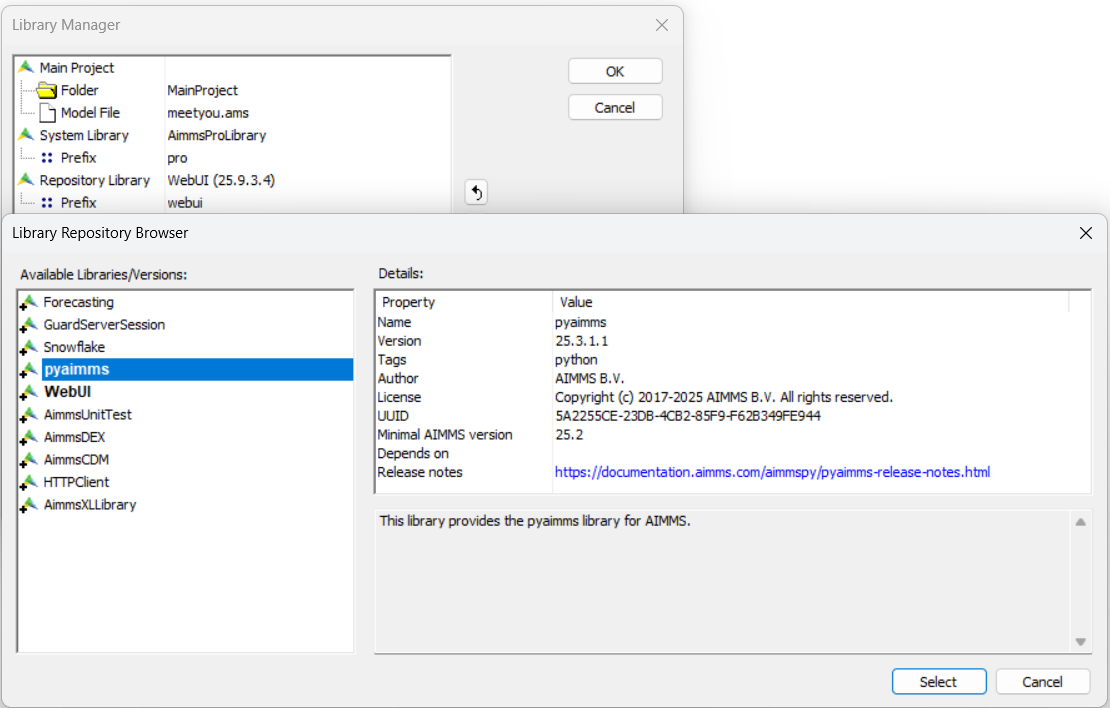
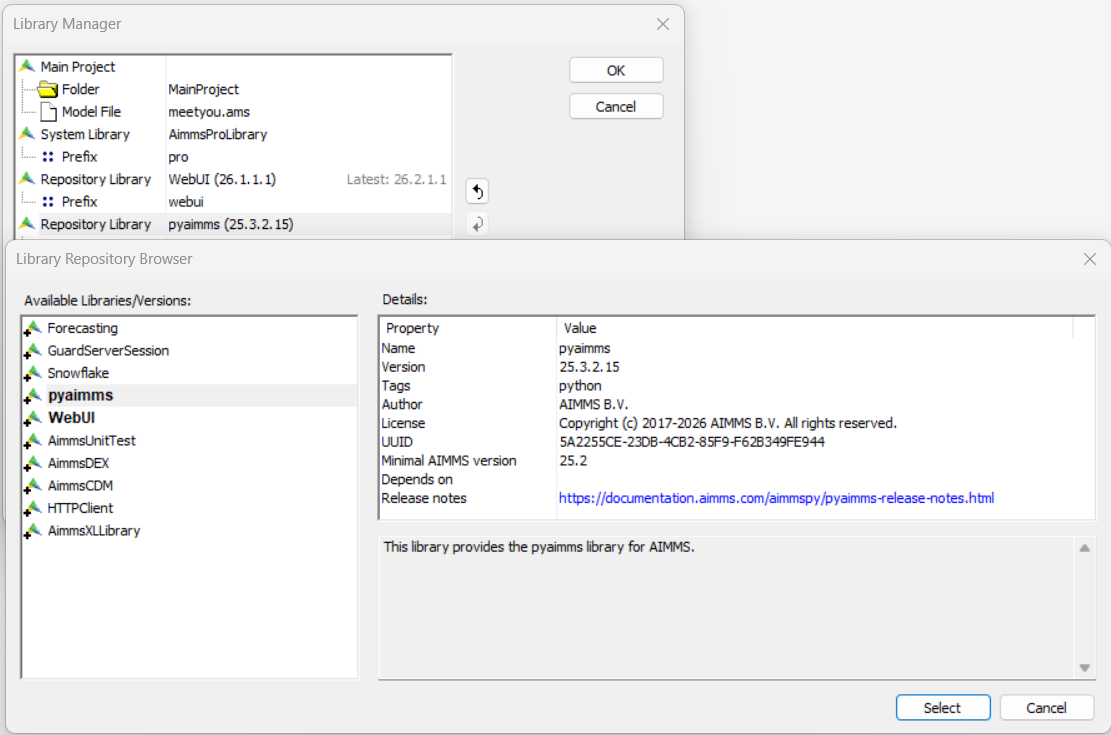
#689 save work

diff --git a/Articles/689/689-nice-to-meet-you-pyaimms.rst b/Articles/689/689-nice-to-meet-you-pyaimms.rst
@@ -5,30 +5,53 @@ Nice to meet you: PYAIMMS from Python Bridge
     :align: center
     :scale: 50 %
 
-
-The Python bridge enables AIMMS applications to leverage the power of Python libraries seamlessly, 
-for example for advanced data manipulation, analytics, or machine-learning workflows that are not native to AIMMS.
-To integrate Python into your application, follow these steps to set up your environment and exchange data.
-
-Example Scenario
---------------------
-
-Goal: Given a square matrix :math:`P(i,j)` in AIMMS, obtain the transpose :math:`P^T(j,i)` using the Python Polars library.
-
 Download here :download:`AIMMS 25.9 project download <model/meetyou.zip>`
+
+The Python bridge allows AIMMS applications to call Python code and exchange data with Python libraries.
+This how-to demonstrates how to configure the bridge, manage dependencies, and transfer multi-dimensional identifiers between AIMMS and Python.
+The example uses a simple matrix transpose to illustrate the integration steps rather than the Python logic itself.
+
+The concept
+-------------
+
+#.  Environment management
+
+    AIMMS uses ``uv`` to create and manage a project-specific Python environment automatically.
+
+#.  Connection layer
+
+    The ``aimmspy`` library provides a typed access to exposed AIMMS identifiers.
+
+#.  Data exchange model
+
+    Multi-dimensional identifiers are transferred as long-format DataFrames:
+    
+    #.  Each index becomes a column.
+    
+    #.  The value column is named after the identifier.
+
+Example: Demonstrating Data Exchange
+-------------------------------------------------- 
+
+Goal: Given a square matrix :math:`P(i,j)` in AIMMS, compute its transpose :math:`P^T(j,i)` using the Python Polars.
+
+The matrix transpose is used only to illustrate how multi-dimensional data is transferred and manipulated in Python.
+
 
 Requirements
 ---------------------
 
-* Python: Version 3.10 and onwards
+* Python 3.10 or later
 
-* AIMMS: Version 25.4 and onwards
+* AIMMS 25.4 or later
 
+Steps taken with the Python files
+----------------------------------
 
 Step 1. Add the toml file
---------------------------
+^^^^^^^^^^^^^^^^^^^^^^^^^^^^^^^^^^^^^^^^^^^^^^^^^^^^^^^^^^^^^^^^^^
 
-AIMMS uses `uv <https://docs.astral.sh/uv/>`_ to manage Python versions and virtual environments automatically.
+`uv <https://docs.astral.sh/uv/>`_ manages the Python versions and virtual environments automatically.
 
 A minimal ``pyproject.toml`` file is as follows:
 
@@ -42,14 +65,14 @@ A minimal ``pyproject.toml`` file is as follows:
     description = "Good to see you again (after aimmspy)"
     requires-python = "==3.13.*"
     dependencies = [
-        "aimmspy>=25.2.1.12"
+        "aimmspy>=25.3.1.8"
     ]
     [tool.uv] 
-    python-preference = "managed"
+    python-preference = "only-managed"
 
 Download here :download:`sample pyproject.toml <model/pyproject.toml>`
 
-The ``pyproject.toml`` file registers the dependencies.
+The ``pyproject.toml`` file defines the dependencies.
 
 Remarks: 
 
@@ -62,26 +85,31 @@ For instance, to add the Python library ``Polars``, execute the command:
 
     uv add polars
 
-This will create / update the virtual environment ``.venv``, and change the dependencies list to:
+This creates or updates the ``.venv`` environment and adds the dependency:
 
 .. code-block:: none
     :linenos:
     :emphasize-lines: 3
 
     dependencies = [
-        "aimmspy>=25.2.1.12",
-        "polars>=1.30.0"
+        "aimmspy>=25.3.1.8",
+        "polars>=1.30"
     ]
     
 
-Step 2. Define the Connection (singleton.py)
------------------------------------------------
+Placement
+""""""""""""""
 
-This file defines how AIMMS and Python talk to each other.
+Place this file in the project folder, next to the ``.aimms`` file.
+
+Step 2. Define the Connection (pyaimms_bridge.py)
+^^^^^^^^^^^^^^^^^^^^^^^^^^^^^^^^^^^^^^^^^^^^^^^^^^^^^^^^^^^^^^^^^^
+
+This file defines the Python–AIMMS connection.
 
 .. code-block:: Python
     :linenos:
-    :emphasize-lines: 5,6
+    :emphasize-lines: 5,6,9
 
     from aimmspy.project.project import Project, Model
     from aimmspy.model.enums.data_return_types import DataReturnTypes
@@ -91,26 +119,72 @@ This file defines how AIMMS and Python talk to each other.
         data_type_preference = DataReturnTypes.POLARS
     )
 
-    my_aimms : Model = project.get_model("model_stub.py")
+    aimms_model : Model = project.get_model("model_stub.py")
 
 Remarks:
 
-*   line 5: Allows Python scripts to exchange data with all identifiers declared in the AIMMS model.
+*   line 5: Exposes all identifiers in the AIMMS model to Python.
 
-*   line 6: Indicates which Python library is used for exchanging data of multi-dimensional identifiers with the AIMMS model.
-    Currently available are DICT, ARROW, PANDAS, and POLARS. In this example, we choose POLARS.
+*   line 6: Specifies the data format used for multi-dimensional identifiers.
+    Available options are DICT, ARROW, PANDAS, and POLARS. In this example, we choose POLARS.
+
+*   line 9: The file ``model_stub.pyi`` is the auto-generated bridge file.
+
+    * This provides typed access to exposed identifiers.
+    
+    * It is regenerated when the model changes.
+    
+    * It should not be edited manually.
+
+This example uses a singleton (pyaimms_bridge.py) to maintain a persistent connection during the session.
+
+Placement
+""""""""""""""
+
+Place this file in the ``PythonScripts`` subfolder.
 
 Step 3. Write the Logic (transpose.py)
----------------------------------------
+^^^^^^^^^^^^^^^^^^^^^^^^^^^^^^^^^^^^^^^^^^^^^^^^^^^^^^^^^^^^^^^^^^
 
-After all this generic setup; we move on to more specific parts of the example at hand.  
-How does the Python code to transpose look like?
+In AIMMS, a multi-dimensional parameter such as ``P(i,j)`` is defined over index domains ``i`` and ``j``, 
+which can be interpreted mathematically as row and column indices of a matrix.
+
+When transferred to Python via the bridge, the parameter is represented as a long-format DataFrame. 
+In this representation:
+
+*   Each AIMMS index becomes a column in the DataFrame.
+
+*   The parameter values appear in a column named after the identifier (e.g., ``P``).
+
+For example, ``P(i,j)`` is transferred as:
+
+.. code-block:: none
+
+   i   j  p
+   1   1  11
+   1   2  12
+   ...
+
+Thus, although ``i`` and ``j`` represent row and column indices conceptually, 
+they are both columns in the Python DataFrame representation.
+
+Similarly, the output long-format DataFrame:
+
+.. code-block:: none
+
+   i   j  pt
+   1   1  11
+   2   1  12
+   ...
+
+Transposing a matrix corresponds to swapping the index columns ``i`` and ``j``.
+The Python implementation:
 
 .. code-block:: Python
     :linenos:
     :emphasize-lines: 9,15
 
-    from singleton import my_aimms
+    from PythonScripts.pyaimms_bridge import aimms_model
 
     def transpose_matrix():
         """
@@ -118,60 +192,68 @@ How does the Python code to transpose look like?
         """
 
         # Get the DataFrame from AIMMS.
-        p_df = my_aimms.p.data()
+        p_df = aimms_model.p.data()
 
         # Swap index dimensions and rename the value column.
         pt_df = p_df.rename({'j': 'i', 'i': 'j', 'p': 'pt'})
 
         # Send data back to AIMMS.
-        my_aimms.pt.assign(pt_df)
+        aimms_model.pt.assign(pt_df)
 
 Remarks:
 
-*   Line 9: Copy the data from AIMMS parameter ``p`` into Python Polars DataFrame ``p_df``
+*   Line 9: Retrieves parameter ``p`` as a Polars DataFrame.
 
-*   Line 12: Because multi-dimensional AIMMS parameters are transferred as long-format DataFrames, 
-    transposing a matrix corresponds to swapping the index columns ``i`` and ``j``.
+*   Line 12: Swaps the index columns and renames the value column.
 
-*   Line 15: And copy the data from Polars DataFrame ``pt_df`` into the AIMMS parameter ``pt``
+*   Line 15: Assigns the result to parameter ``pt`` in AIMMS.
 
-Step 4. Prepare AIMMS project
--------------------------------------
+Placement
+""""""""""""""
+
+This file is placed in the sub-folder ``PythonScripts``.
+
+Steps taken in the AIMMS project
+---------------------------------------------------------------
+
+Step 1. Prepare AIMMS project
+^^^^^^^^^^^^^^^^^^^^^^^^^^^^^^^^^^^^^^^^^^^^^^^^^^^^^^^^^^^^^^^^^^
  
 Add the pyaimms repository library via the Library Manager in AIMMS Developer:
 
 .. image:: images/addrepolib.png
     :align: center
 
-This makes the ``py::`` procedures available inside the AIMMS model.
+This makes the ``py::`` procedures available in the AIMMS model.
 
 
-
-Step 5. Create the link from the AIMMS model to the Python function
--------------------------------------------------------------------
+Step 2. Create the link from the AIMMS model to the Python function
+^^^^^^^^^^^^^^^^^^^^^^^^^^^^^^^^^^^^^^^^^^^^^^^^^^^^^^^^^^^^^^^^^^^^^^^^^^^^^^^^^^
 
 .. code-block:: Python
     :linenos:
 
-    py::run_python_script("transpose.py");
+    py::run_python_script("PythonScripts/transpose.py");
 
-This will scan the Python script ``transpose.py`` make the function ``transpose_matrix`` available.
+This command loads the Python module into the interpreter so its functions 
+can be executed from AIMMS via ``py::run_python_statement``.
 In the example project provided, this procedure is called during initialization.
 
-Step 6. Execute the Python function from within AIMMS model
---------------------------------------------------------------
+Step 3. Execute the Python function from within AIMMS model
+^^^^^^^^^^^^^^^^^^^^^^^^^^^^^^^^^^^^^^^^^^^^^^^^^^^^^^^^^^^^^^^^^^
 
 .. code-block:: Python
     :linenos:
 
     py::run_python_statement("transpose_matrix()");
-    
-This statement will execute the Python function ``transpose_matrix`` once.
 
-Step 7. Run a single Python procedure
--------------------------------------------------
+This executes the Python function ``transpose_matrix``.
+In the example project, this call is part of procedue ``pr_transpose``. 
 
-After running the workhorse from the WebUI:
+Step 4. Trigger the Python Procedure from the WebUI
+^^^^^^^^^^^^^^^^^^^^^^^^^^^^^^^^^^^^^^^^^^^^^^^^^^^^^^^^^^^^^^^^^^
+
+The procedure ``pr_transpose`` is activated by pressing the button ``♘`` in the WebUI:
 
 .. image:: images/transposeresult.png
     :align: center
@@ -180,7 +262,7 @@ After running the workhorse from the WebUI:
 Summary
 ----------------
 
-In this how-to the following is covered:
+This how-to covers: 
 
 *   Manage dependencies with uv.
 
